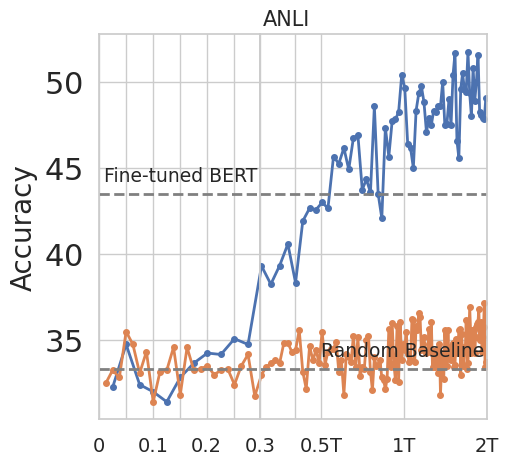
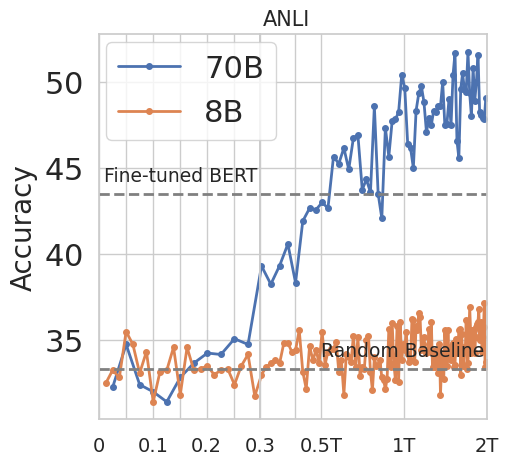
Add legend to intermediate plots

diff --git a/results.tex b/results.tex
@@ -6,11 +6,11 @@ Now we present our results, focussing in particular on whether NLI benchmarks pr
 \subsection{Informativeness for fully trained models}\label{subsec:fully_trained}
 
 \begin{figure*}[t]
-    \begin{subfigure}[b]{\textwidth}
-        \hspace{5mm}
-        \includegraphics[width=0.95\textwidth]{figures/legend}
-        \vspace{-3mm}
-    \end{subfigure}\\
+    % \begin{subfigure}[b]{\textwidth}
+    %     \hspace{5mm}
+    %     \includegraphics[width=0.95\textwidth]{figures/legend}
+    %     \vspace{-3mm}
+    % \end{subfigure}\\
     \begin{subfigure}[b]{0.217\textwidth}
     \centering
     \includegraphics[height=3.45cm]{figures/anli}
